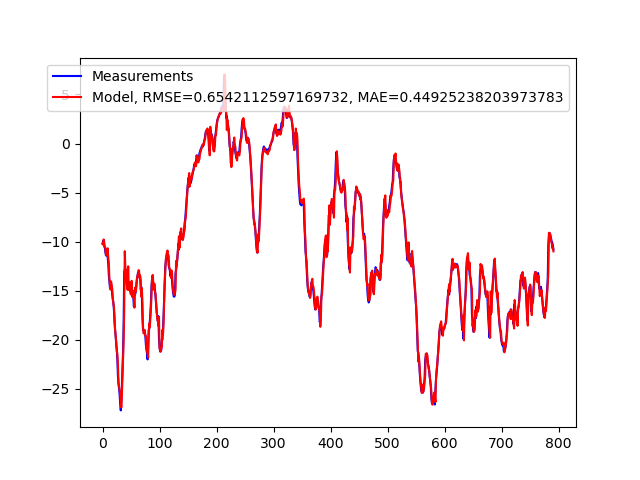
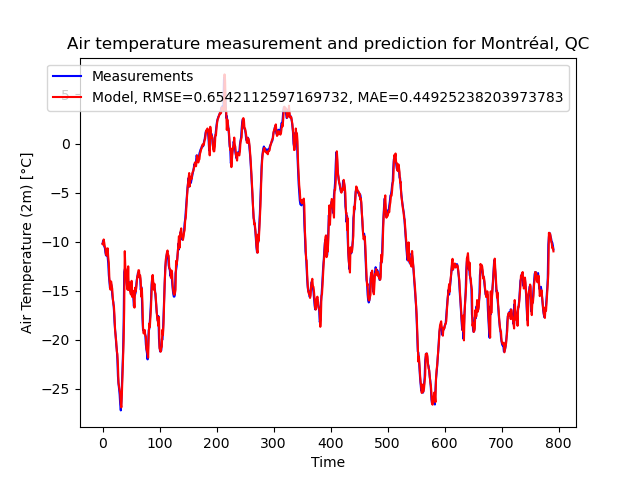
add lag 1/2, plot title

Changed region(s): [[0.0938, 0.0625, 0.9062, 0.125], [0.0312, 0.3125, 0.0625, 0.6875], [0.5, 0.9375, 0.5312, 0.9688]]

diff --git a/code/project_paul.py b/code/project_paul.py
@@ -147,8 +147,8 @@ if __name__ == "__main__":
     plt.show()
 
     n = df.shape[0]
-    df_train = df[:n//2]
-    df_control = df[n//2+1:]
+    df_train = df[:n//2].copy()
+    df_control = df[n//2+1:].copy()
     print(df_train.shape)
     print(df_control.shape)
 
@@ -176,7 +176,11 @@ if __name__ == "__main__":
     plt.plot(y, label='Measurements', color='blue')
     plt.plot(y_fit, label=f'Model, RMSE={rmse}, MAE={mae}', color='red')
     plt.legend()
+    plt.ylabel('Air Temperature (2m) [°C]')
+    plt.xlabel('Time')
+    plt.title('Air temperature measurement and prediction for Montréal, QC')
     plt.savefig('plots/leastsquares.png')
+    plt.grid(True)
     plt.show()
     #tbc: add lag
     # or interpolation ?
